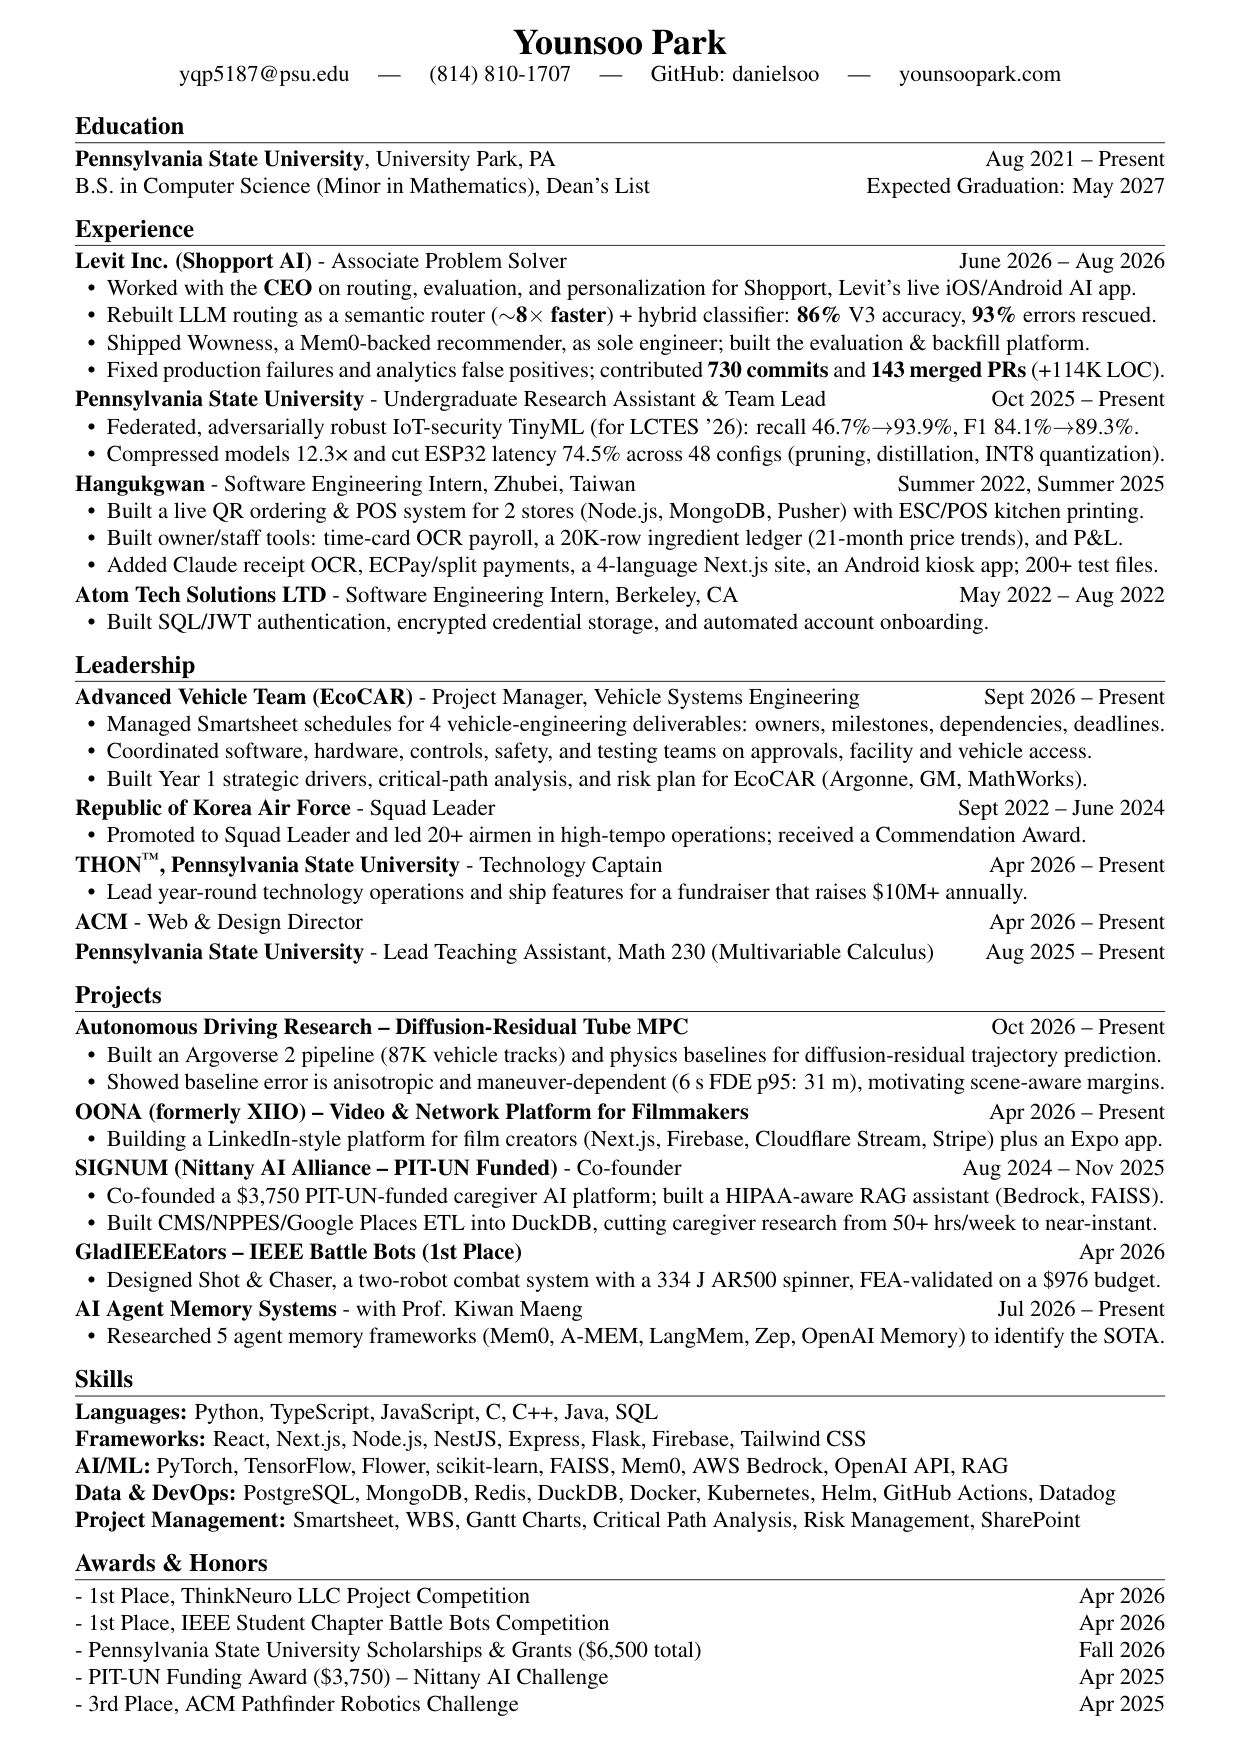
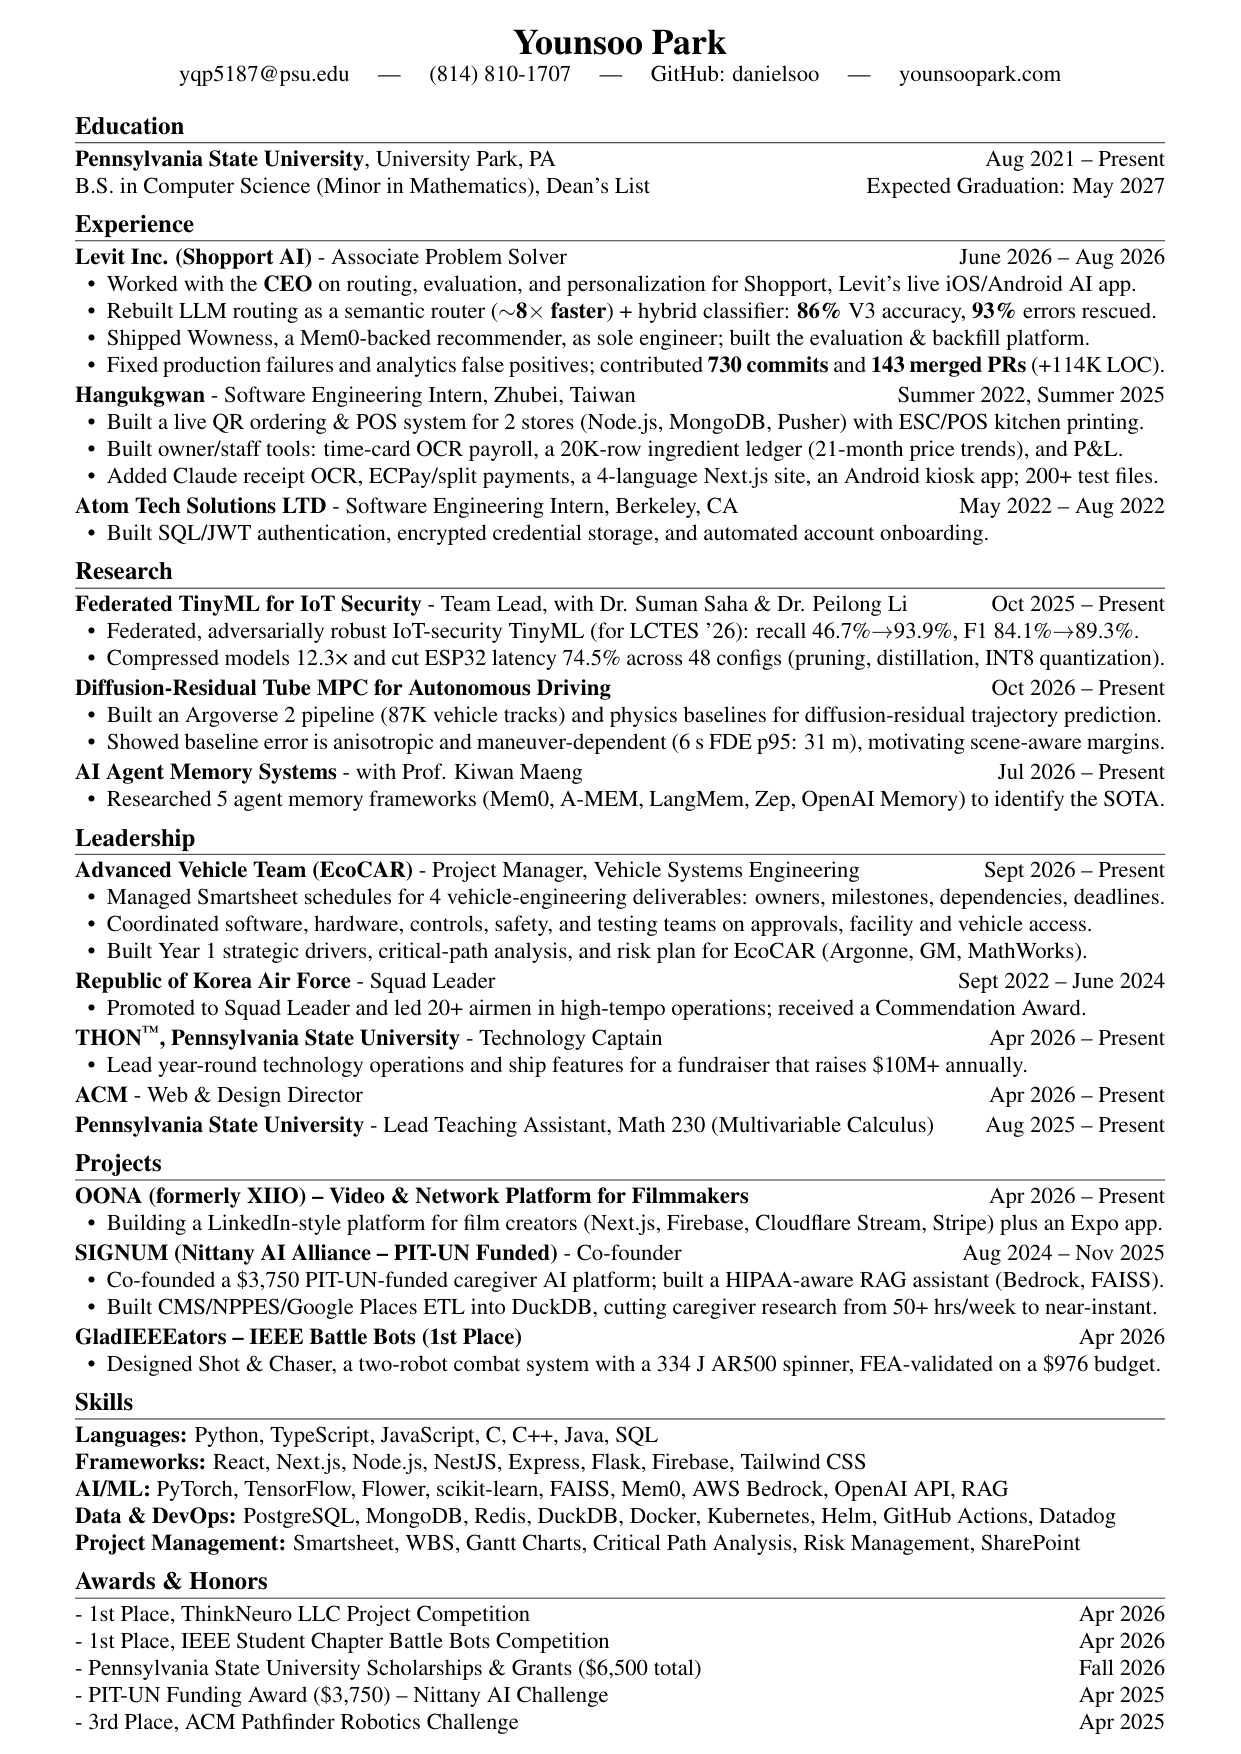
docs: move unpaid research out of Experience into a Research section
Experience keeps paid roles (Levit, Hangukgwan, Atom Tech). TinyML,
the Tube MPC autonomous-driving work and the agent memory study now sit
under Research, titled by topic with their advisors. Section spacing
tightened slightly to stay on one page.

Claude-Session: https://claude.ai/code/session_017SANFTXA7MstFrWqL8xgRt

Changed region(s): [[0.0612, 0.1231, 0.9492, 0.9852]]

diff --git a/resume-source/resume.tex b/resume-source/resume.tex
@@ -17,7 +17,7 @@
 \addtolength{\textwidth}{1in}
 
 % Section spacing (고정 간격)
-\titlespacing*{\section}{0pt}{0.7em}{0.3em}
+\titlespacing*{\section}{0pt}{0.5em}{0.3em}
 
 %---------------- Spacing Rules ----------------
 \setlength{\parskip}{0pt}
@@ -72,13 +72,6 @@ B.S. in Computer Science (Minor in Mathematics), Dean's List \hfill Expected Gra
 \end{details}
 \blockspace
 
-\noindent\textbf{Pennsylvania State University} - Undergraduate Research Assistant \& Team Lead \hfill Oct 2025 -- Present
-\begin{details}
-\item Federated, adversarially robust IoT-security TinyML (for LCTES '26): recall 46.7\%$\to$93.9\%, F1 84.1\%$\to$89.3\%.
-\item Compressed models 12.3× and cut ESP32 latency 74.5\% across 48 configs (pruning, distillation, INT8 quantization).
-\end{details}
-\blockspace
-
 \noindent\textbf{Hangukgwan} - Software Engineering Intern, Zhubei, Taiwan \hfill Summer 2022, Summer 2025
 \begin{details}
 \item Built a live QR ordering \& POS system for 2 stores (Node.js, MongoDB, Pusher) with ESC/POS kitchen printing.
@@ -90,6 +83,27 @@ B.S. in Computer Science (Minor in Mathematics), Dean's List \hfill Expected Gra
 \noindent\textbf{Atom Tech Solutions LTD} - Software Engineering Intern, Berkeley, CA \hfill May 2022 -- Aug 2022
 \begin{details}
 \item Built SQL/JWT authentication, encrypted credential storage, and automated account onboarding.
+\end{details}
+
+%----------------------------------------
+\section{Research}
+\noindent\textbf{Federated TinyML for IoT Security} - Team Lead, with Dr. Suman Saha \& Dr. Peilong Li \hfill Oct 2025 -- Present
+\begin{details}
+\item Federated, adversarially robust IoT-security TinyML (for LCTES '26): recall 46.7\%$\to$93.9\%, F1 84.1\%$\to$89.3\%.
+\item Compressed models 12.3× and cut ESP32 latency 74.5\% across 48 configs (pruning, distillation, INT8 quantization).
+\end{details}
+\blockspace
+
+\noindent\textbf{Diffusion-Residual Tube MPC for Autonomous Driving} \hfill Oct 2026 -- Present
+\begin{details}
+\item Built an Argoverse 2 pipeline (87K vehicle tracks) and physics baselines for diffusion-residual trajectory prediction.
+\item Showed baseline error is anisotropic and maneuver-dependent (6 s FDE p95: 31 m), motivating scene-aware margins.
+\end{details}
+\blockspace
+
+\noindent\textbf{AI Agent Memory Systems} - with Prof. Kiwan Maeng \hfill Jul 2026 -- Present
+\begin{details}
+\item Researched 5 agent memory frameworks (Mem0, A-MEM, LangMem, Zep, OpenAI Memory) to identify the SOTA.
 \end{details}
 
 %----------------------------------------
@@ -121,13 +135,6 @@ B.S. in Computer Science (Minor in Mathematics), Dean's List \hfill Expected Gra
 
 %----------------------------------------
 \section{Projects}
-\noindent\textbf{Autonomous Driving Research – Diffusion-Residual Tube MPC} \hfill Oct 2026 -- Present
-\begin{details}
-\item Built an Argoverse 2 pipeline (87K vehicle tracks) and physics baselines for diffusion-residual trajectory prediction.
-\item Showed baseline error is anisotropic and maneuver-dependent (6 s FDE p95: 31 m), motivating scene-aware margins.
-\end{details}
-\blockspace
-
 \noindent\textbf{\href{https://xiio.vercel.app}{OONA (formerly XIIO) – Video \& Network Platform for Filmmakers}} \hfill Apr 2026 -- Present
 \begin{details}
 \item Building a LinkedIn-style platform for film creators (Next.js, Firebase, Cloudflare Stream, Stripe) plus an Expo app.
@@ -144,12 +151,6 @@ B.S. in Computer Science (Minor in Mathematics), Dean's List \hfill Expected Gra
 \noindent\textbf{GladIEEEators – IEEE Battle Bots (1st Place)} \hfill Apr 2026
 \begin{details}
 \item Designed Shot \& Chaser, a two-robot combat system with a 334 J AR500 spinner, FEA-validated on a \$976 budget.
-\end{details}
-\blockspace
-
-\noindent\textbf{AI Agent Memory Systems} - with Prof. Kiwan Maeng \hfill Jul 2026 -- Present
-\begin{details}
-\item Researched 5 agent memory frameworks (Mem0, A-MEM, LangMem, Zep, OpenAI Memory) to identify the SOTA.
 \end{details}
 
 %----------------------------------------
